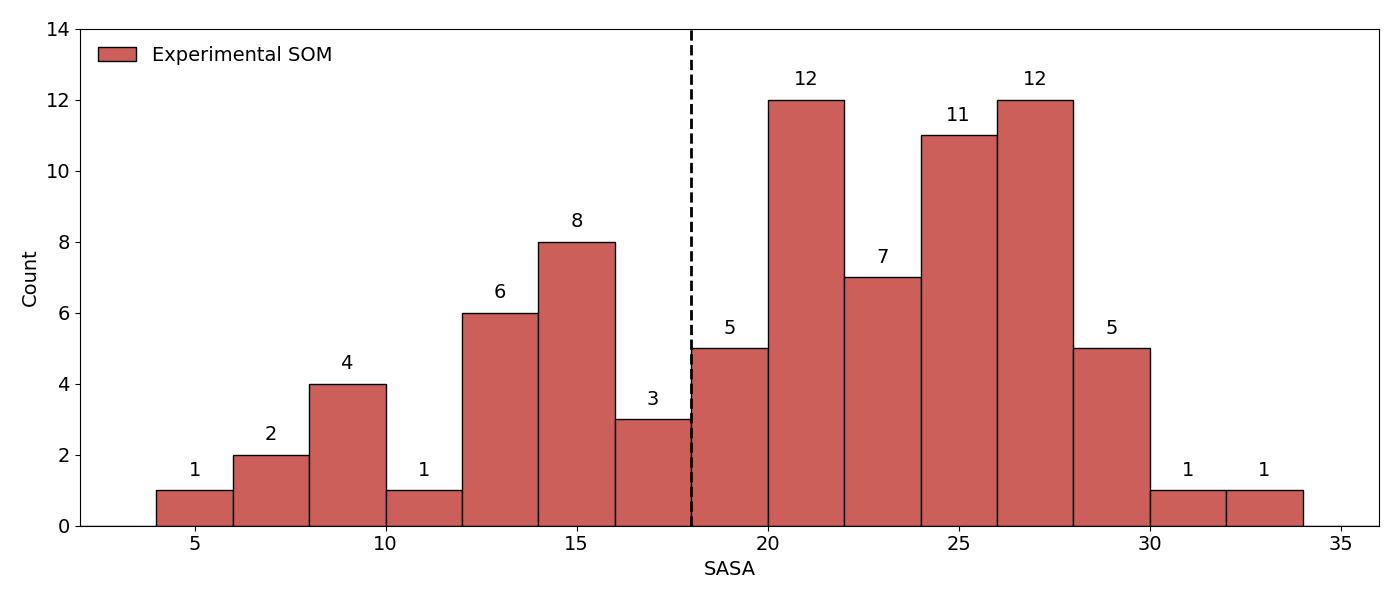
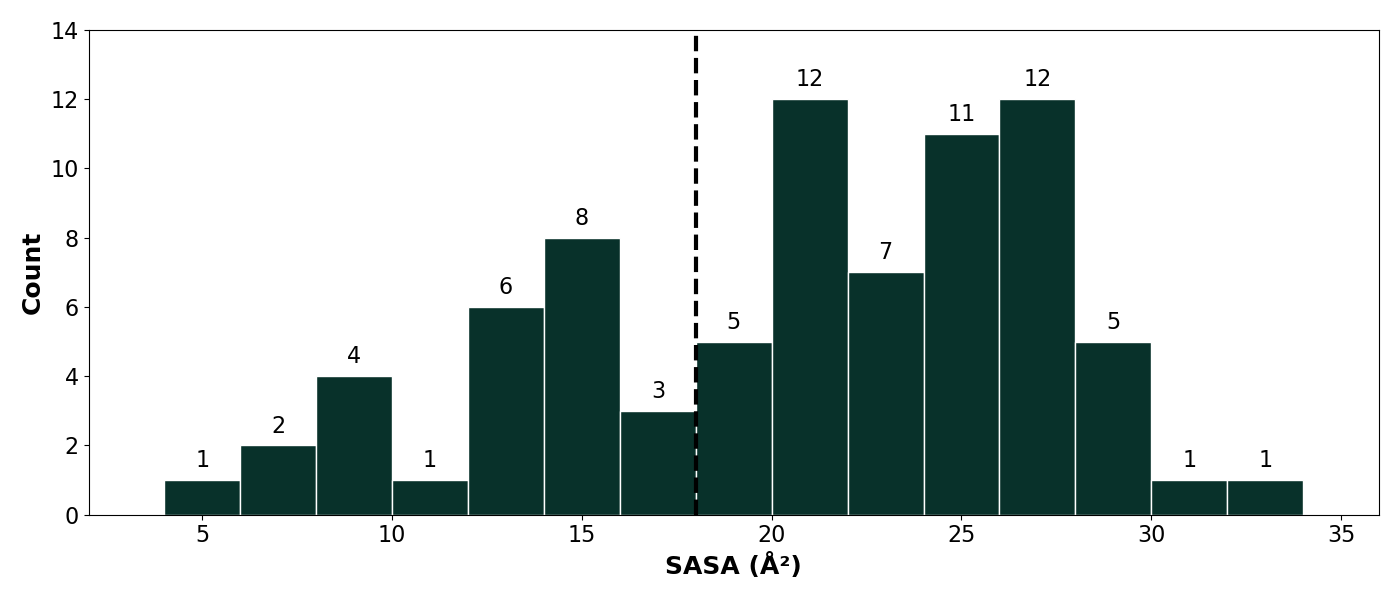
checkpoint

diff --git a/04_statistics/gen_1/01_bde_distribution.py b/04_statistics/gen_1/01_bde_distribution.py
@@ -43,36 +43,41 @@ n, bins, patches = ax.hist(
     som_df["bde"],
     bins=bins,
     label=["Experimental SOM"],
-    color=["#CC5F5A"],
-    edgecolor="black",
+    color=["#08312a"],
+    edgecolor="white",
     stacked=True,
 )
 
 # Annotate each bar with the count
 for patch in patches:
     height = patch.get_height()
-    if height > 0:  # Only annotate if the height is greater than 0
+    if height > 0: 
         ax.annotate(
             f"{int(height)}",
             xy=(
                 patch.get_x() + patch.get_width() / 2,
                 height + 1,
             ),
-            xytext=(0, 0),  # No vertical offset
+            xytext=(0, 0),  
             textcoords="offset points",
             ha="center",
             va="center",
+            fontsize=16,
         )
 
 # rotate the x-axis labels
-ax.set_xlabel("BDE")
-ax.set_ylabel("Count")
+ax.set_xlabel("BDE (kcal/mol)", fontsize=18, fontweight="bold")
+ax.set_ylabel("Count", fontsize=18, fontweight="bold")
+
+# Increase the font size of the tick labels
+plt.xticks(fontsize=16)
+plt.yticks(fontsize=16)
 
 # Add a vertical dash line at x=94
-ax.axvline(x=94, color="black", linestyle="--", linewidth=2)
+ax.axvline(x=94, color="black", linestyle="--", linewidth=3)
 ax.set_xlim(68, 107)
 ax.set_ylim(0, 25)
-ax.legend(frameon=False, loc="upper left")
+# ax.legend(frameon=False, loc="upper left")
 
 plt.tight_layout()
 plt.savefig("./bde_distribution_som.png")

diff --git a/04_statistics/gen_1/03_sasa_distribution.py b/04_statistics/gen_1/03_sasa_distribution.py
@@ -47,36 +47,40 @@ n, bins, patches = ax.hist(
     som_df["sasa_hydrogen_maestro"],
     bins=bins,
     label=["Experimental SOM"],
-    color=["#CC5F5A"],
-    edgecolor="black",
+    color=["#08312a"],
+    edgecolor="white",
     stacked=True,
 )
 
 # Annotate each bar with the count
 for patch in patches:
     height = patch.get_height()
-    if height > 0:  # Only annotate if the height is greater than 0
+    if height > 0: 
         ax.annotate(
             f"{int(height)}",
             xy=(
                 patch.get_x() + patch.get_width() / 2,
                 height + 1 / 25 * 14,
             ),
-            xytext=(0, 0),  # No vertical offset
+            xytext=(0, 0),  
             textcoords="offset points",
             ha="center",
             va="center",
+            fontsize=16,
         )
 
 # Set labels and legend
-ax.set_xlabel("SASA")
-ax.set_ylabel("Count")
-ax.legend(frameon=False, loc="upper left")
+ax.set_xlabel("SASA (Å²)", fontsize=18, fontweight="bold")
+ax.set_ylabel("Count", fontsize=18, fontweight="bold")
+# ax.legend(frameon=False, loc="upper left")
 
 # Add a vertical dash line at x=18
-ax.axvline(x=18, color="black", linestyle="--", linewidth=2)
+ax.axvline(x=18, color="black", linestyle="--", linewidth=3)
 ax.set_xlim(2, 36)
 ax.set_ylim(0, 14)
+
+plt.xticks(fontsize=16)
+plt.yticks(fontsize=16)
 
 plt.tight_layout()
 plt.savefig("./sasa_hydrogen_distribution_all.png")
